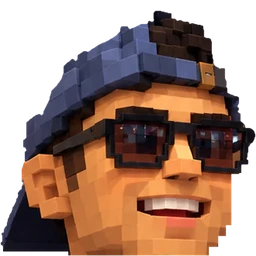
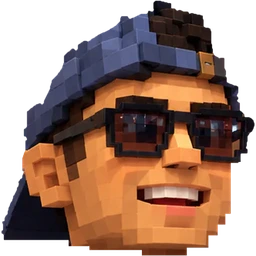
feat: restyle founder cards as pixel mosaic cards
Replace the issue-style founder cards with pastel block-mosaic cards in
each founder's colour, with debossed pixel text, and drop the fact
lines. Also restore the bottom of Rishi's head cutout.

diff --git a/components/new-landing/team/TeamStory.tsx b/components/new-landing/team/TeamStory.tsx
@@ -1,19 +1,35 @@
 import Image from "next/image";
 import type { CSSProperties } from "react";
 
-import { CtaArrowIcon } from "@/components/icons";
 import { HARD_SHADOW } from "@/components/new-landing/boxStyles";
 import FadeIn from "@/components/new-landing/FadeIn";
-import StatusBlock from "@/components/new-landing/StatusBlock";
-import { KanbanBoard } from "@/lib/kanban/KanbanBoard";
+import { seededRandom } from "@/lib/seededRandom";
 import { cn } from "@/lib/utils";
-import { KanbanStatus } from "@/types/kanban";
 
 import { TEAM_CHAPTERS, type TeamChapter } from "./teamChapters";
 
-const FOUNDER_STATUS = KanbanStatus.InProgress;
+const MOSAIC_COLUMNS = 8;
+const MOSAIC_ROWS = 5;
+const TILE_SHADES = [
+    [0.78, 0.17],
+    [0.86, 0.14],
+    [0.72, 0.19],
+    [0.75, 0.18],
+    [0.82, 0.16],
+].map(([lightness, chroma]) => `oklch(from var(--tone) ${lightness} ${chroma} h)`);
+const INSET_SHADOW = [
+    "0 -1px 0 oklch(from var(--tone) 0.34 0.13 h / 0.85)",
+    "-1px 0 0 oklch(from var(--tone) 0.34 0.13 h / 0.45)",
+    "0 1px 0 oklch(from var(--tone) 0.95 0.04 h / 0.7)",
+].join(", ");
 
-const issueId = (index: number) => `DRW-${String(index + 1).padStart(3, "0")}`;
+function mosaicShades(seed: number) {
+    const random = seededRandom(seed);
+    return Array.from(
+        { length: MOSAIC_COLUMNS * MOSAIC_ROWS },
+        () => TILE_SHADES[Math.floor(random() * TILE_SHADES.length)],
+    );
+}
 
 function FounderHead({ chapter }: { chapter: TeamChapter }) {
     return <Image src={chapter.head} alt="" sizes="112px" className="size-14 shrink-0" />;
@@ -23,39 +39,35 @@ function FounderCard({ chapter, index }: { chapter: TeamChapter; index: number }
     return (
         <div
             style={{ "--tone": chapter.tone } as CSSProperties}
-            className={cn("w-full border border-(--tone) bg-snow", HARD_SHADOW)}
+            className={cn("relative aspect-[8/5] w-full overflow-hidden", HARD_SHADOW)}
         >
-            <div className="flex items-center justify-between gap-3 border-b border-foreground/10 px-4 py-2.5 font-mono text-[11px] tracking-[0.08em] text-neutral-500">
-                {issueId(index)}
-                <span className="flex items-center gap-1.5 text-foreground/80">
-                    <StatusBlock status={FOUNDER_STATUS} />
-                    {KanbanBoard.columnFor(FOUNDER_STATUS)!.title}
-                </span>
-            </div>
-            <div className="px-4 pt-4 pb-5">
-                <p className="text-[19px] leading-[1.3] tracking-[-0.01em] text-foreground">
-                    {chapter.role}
-                </p>
-                <ul className="mt-4 flex flex-col gap-2 border-l border-(--tone) pl-3">
-                    {chapter.facts.map((fact) => (
-                        <li
-                            key={fact}
-                            className="text-[14px] leading-snug text-foreground/75 first-letter:uppercase"
-                        >
-                            {fact}
-                        </li>
-                    ))}
-                </ul>
-            </div>
-            <a
-                href={`https://x.com/${chapter.xHandle}`}
-                target="_blank"
-                rel="noreferrer"
-                className="group/handle flex items-center justify-between border-t border-foreground/10 px-4 py-2.5 font-mono text-[11px] tracking-[0.08em] text-neutral-500 transition-colors hover:text-foreground"
+            <div
+                aria-hidden
+                className="absolute inset-0 grid"
+                style={{ gridTemplateColumns: `repeat(${MOSAIC_COLUMNS}, 1fr)` }}
             >
-                @{chapter.xHandle}
-                <CtaArrowIcon className="size-3.5 transition-transform group-hover/handle:translate-x-0.5" />
-            </a>
+                {mosaicShades(index + 1).map((shade, tile) => (
+                    <span key={tile} style={{ background: shade }} />
+                ))}
+            </div>
+            <div
+                aria-hidden
+                className="pointer-events-none absolute inset-[4%] border border-snow/35"
+            />
+            <div
+                className="absolute top-[10%] left-[7%] font-pixel leading-none text-snow uppercase"
+                style={{ textShadow: INSET_SHADOW }}
+            >
+                <p className="text-[7px] tracking-[0.12em]">The founding team of</p>
+                <p className="mt-1 text-[22px] tracking-[0.06em]">Darwin</p>
+            </div>
+            <div
+                className="absolute right-[7%] bottom-[10%] text-right font-pixel leading-none text-snow uppercase"
+                style={{ textShadow: INSET_SHADOW }}
+            >
+                <p className="text-[8px] tracking-[0.1em]">{chapter.role}</p>
+                <p className="mt-1.5 text-[24px] tracking-[0.06em]">{chapter.name.split(" ")[0]}</p>
+            </div>
         </div>
     );
 }

diff --git a/components/new-landing/team/teamChapters.ts b/components/new-landing/team/teamChapters.ts
@@ -24,7 +24,6 @@ export type TeamChapter = {
     head: StaticImageData;
     about: string;
     xHandle: string;
-    facts: string[];
     hoverLines: string[];
 };
 
@@ -47,11 +46,6 @@ export const TEAM_CHAPTERS: TeamChapter[] = [
         boxedPortrait: rishiBoxed,
         head: rishiHead,
         rosterFraming: { zoom: 1.12, anchorY: 1 },
-        facts: [
-            "filed issue #1",
-            "web · server · database · runners",
-            "owns every call in between",
-        ],
     },
     {
         key: "piyush",
@@ -70,11 +64,6 @@ export const TEAM_CHAPTERS: TeamChapter[] = [
         portrait: piyushPortrait,
         boxedPortrait: piyushBoxed,
         head: piyushHead,
-        facts: [
-            "board · review screens · this page",
-            "spacing · motion · state",
-            "signs off before it ships",
-        ],
     },
     {
         key: "anjan",
@@ -93,10 +82,5 @@ export const TEAM_CHAPTERS: TeamChapter[] = [
         portrait: anjanPortrait,
         boxedPortrait: anjanBoxed,
         head: anjanHead,
-        facts: [
-            "queues · runners · sandboxes",
-            "isolated · observable · fast",
-            "fixes land while you sleep",
-        ],
     },
 ];
